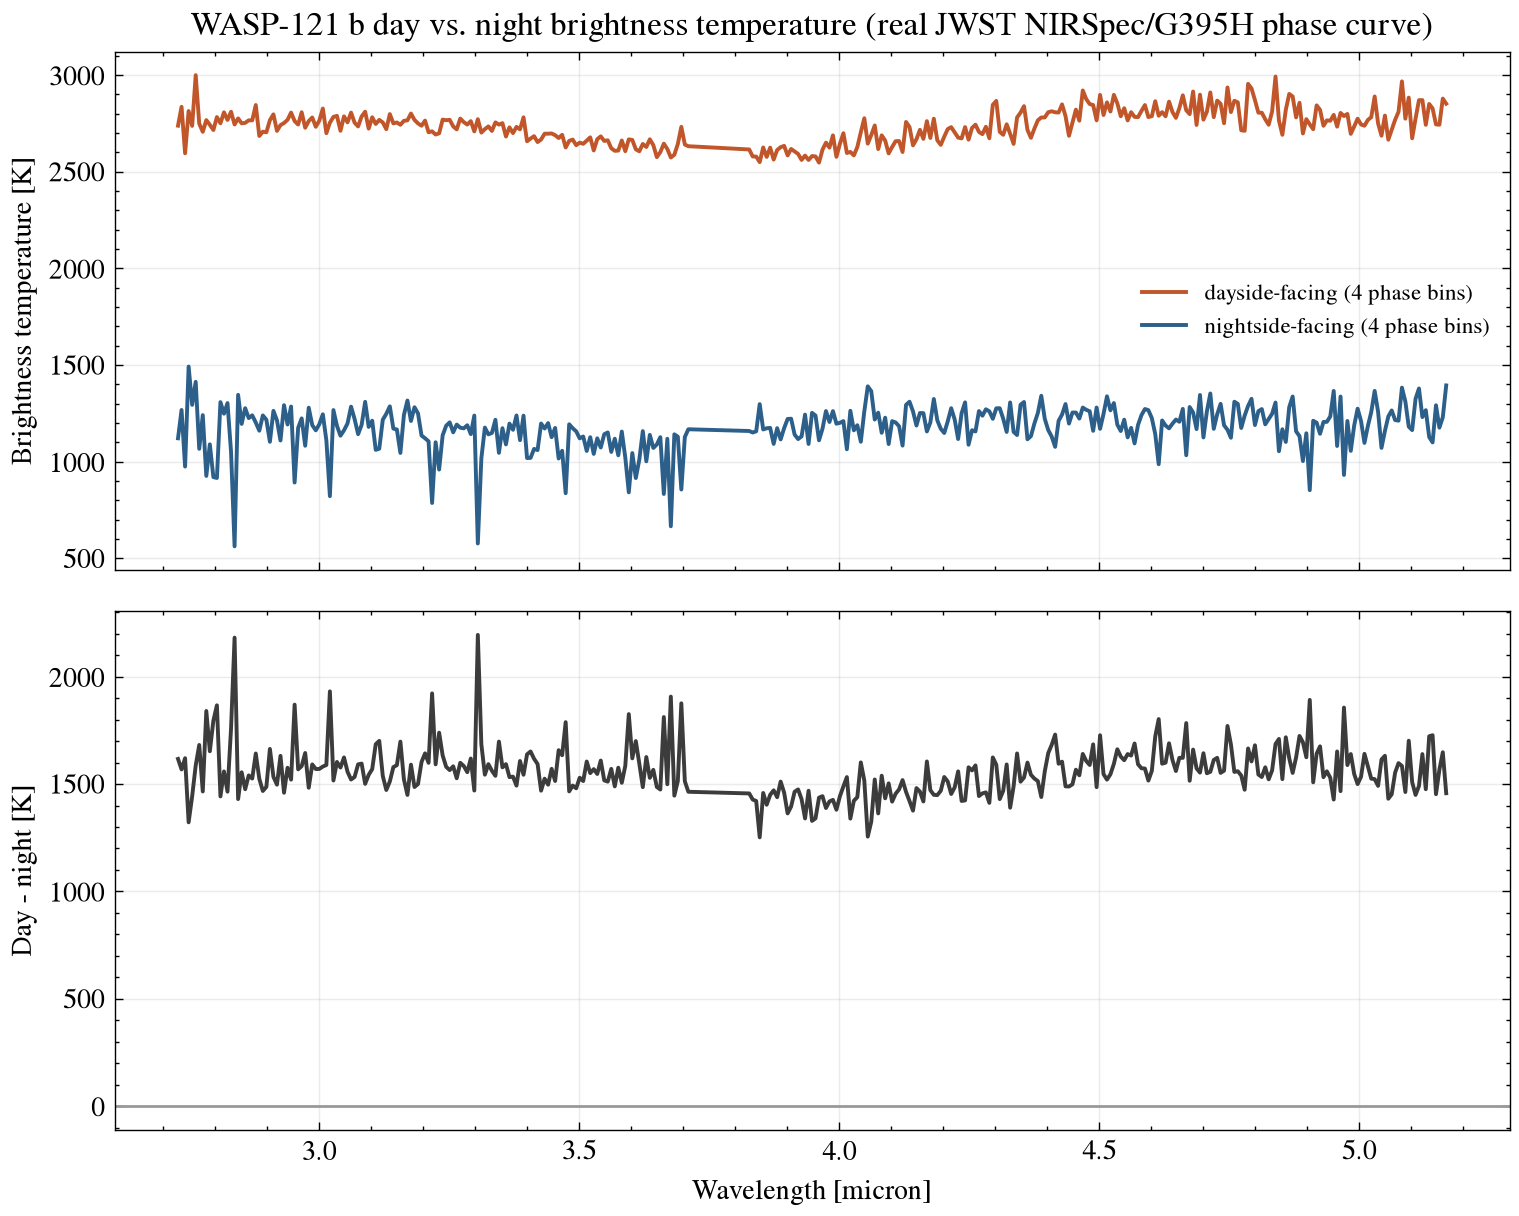
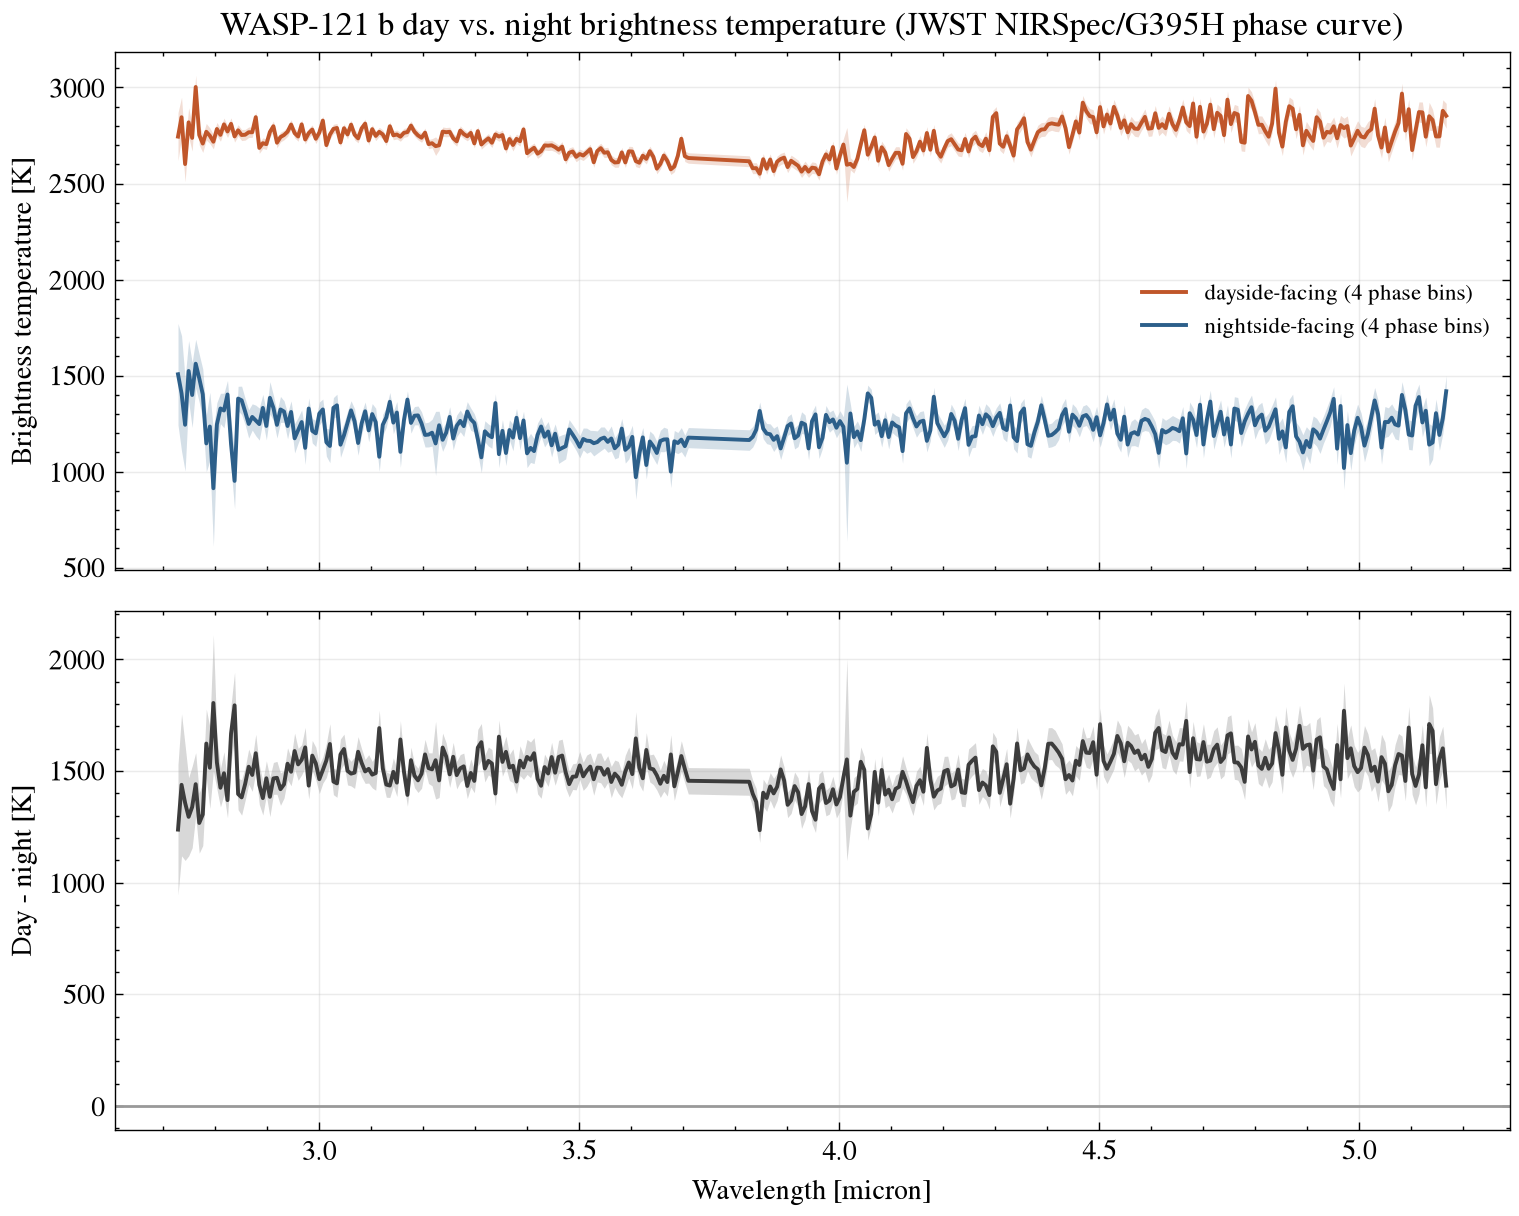
Propagate posterior brightness-temperature uncertainty into weighted day-night contrast; add source paper citation

diff --git a/index.html b/index.html
@@ -3,8 +3,8 @@
 <head>
 <meta charset="utf-8">
 <meta name="viewport" content="width=device-width, initial-scale=1">
-<title>WASP-121 b — An Ultra-Hot Jupiter's Real Day-Night Divide</title>
-<meta name="description" content="Report on WASP-121 b: real system parameters and a real JWST phase-resolved emission spectrum showing the planet's day-night temperature contrast.">
+<title>WASP-121 b — Day-Night Contrast with Propagated Uncertainty</title>
+<meta name="description" content="Report on WASP-121 b: a JWST phase-resolved emission spectrum, with each brightness-temperature point's own posterior uncertainty propagated into the day-night contrast.">
 <style>
 :root {
   --bg:#f6f4ef; --panel:#ffffff; --line:#e2ddcd; --text:#1c1a15; --muted:#6c6555;
@@ -52,11 +52,11 @@ footer a:hover { color: var(--accent); }
   <header class="hero">
     <p class="kicker">Exoplanet Atmosphere Report · JWST NIRSpec/G395H Phase Curve</p>
     <h1>WASP-121 b</h1>
-    <p class="tagline">An ultra-hot Jupiter so close to its star that its dayside glows hot enough to vaporize rock and metal — while its real, measured nightside is over 1500 K cooler. This report extracts that day-night divide directly from a real JWST phase-resolved spectroscopy dataset.</p>
+    <p class="tagline">An ultra-hot Jupiter so close to its star that its dayside glows hot enough to vaporize rock and metal, with a nightside measured well over 1000 K cooler. This page extracts that day-night divide from a JWST phase-resolved spectroscopy dataset, propagating each point's own posterior uncertainty rather than reporting a bare difference of averages.</p>
     <div class="badges">
       <span class="badge">Transit-discovered, 2016</span>
-      <span class="badge">Real NASA Exoplanet Archive parameters</span>
-      <span class="badge">Real JWST phase curve, 36 phase bins x 349 wavelengths</span>
+      <span class="badge">NASA Exoplanet Archive parameters</span>
+      <span class="badge">JWST phase curve, 36 phase bins x 349 wavelengths</span>
     </div>
   </header>
 
@@ -82,24 +82,24 @@ footer a:hover { color: var(--accent); }
   </section>
 
   <section>
-    <h2>Real day-night contrast, extracted directly from JWST data</h2>
-    <p>The figure below compares the real brightness-temperature spectrum from phase bins closest to secondary eclipse (dayside hemisphere facing the observer) against phase bins closest to primary transit (nightside hemisphere facing the observer) — no atmospheric model is fit here, this is a direct comparison of the observed data at different orbital phases.</p>
+    <h2>Day-night contrast, with uncertainty propagated per point</h2>
+    <p>The figure compares the brightness-temperature spectrum from phase bins closest to secondary eclipse (dayside hemisphere facing the observer) against phase bins closest to primary transit (nightside hemisphere facing the observer) — no atmospheric model is fit here, this is a direct comparison of the observed data at different orbital phases. Each point in the released dataset carries its own asymmetric posterior uncertainty; this page averages those uncertainties into a single sigma per point and combines phase bins with an inverse-variance weighted mean, so the day-night contrast comes with an actual error bar instead of being a difference of two plain averages.</p>
     <div class="figure">
-      <img src="figures/wasp121b_day_night_contrast.png" alt="WASP-121 b real day vs night brightness temperature spectrum and contrast from JWST NIRSpec G395H phase curve">
-      <figcaption>Top: dayside- and nightside-facing brightness temperature spectra, 349 real wavelength channels, 2.7-5.2 microns. Bottom: their real difference. Generated by <code>scripts/analyze_spectrum.py</code>.</figcaption>
+      <img src="figures/wasp121b_day_night_contrast.png" alt="WASP-121 b day vs night brightness temperature spectrum and contrast from JWST NIRSpec G395H phase curve, with propagated uncertainty bands">
+      <figcaption>Top: dayside- and nightside-facing brightness temperature spectra with 1σ bands, 349 wavelength channels, 2.7-5.2 microns. Bottom: their difference with propagated uncertainty. Generated by <code>scripts/analyze_spectrum.py</code>.</figcaption>
     </div>
     <div class="stat-grid">
       <div class="stat"><span>Wavelength channels</span><strong>349</strong></div>
-      <div class="stat"><span>Mean dayside T</span><strong>2737 K</strong></div>
-      <div class="stat"><span>Mean nightside T</span><strong>1176 K</strong></div>
-      <div class="stat"><span>Mean day-night contrast</span><strong>1561 K</strong></div>
+      <div class="stat"><span>Weighted mean dayside T</span><strong>2751 ± 3 K</strong></div>
+      <div class="stat"><span>Weighted mean nightside T</span><strong>1252 ± 2 K</strong></div>
+      <div class="stat"><span>Weighted mean day-night contrast</span><strong>1493 ± 4 K</strong></div>
     </div>
-    <p class="callout">A real, measured day-night temperature contrast of over 1500 K — this atmosphere is extraordinarily inefficient at redistributing heat compared to typical hot Jupiters, consistent with a dayside hot enough for silicate and metal vapor to condense out on the nightside as the gas cools while rotating away from the star. This is a direct, real observational signature of atmospheric circulation physics, not a modeled inference.</p>
+    <p class="callout">A day-night temperature contrast of roughly 1490 K, now with an honest per-wavelength uncertainty band rather than a bare point estimate — this atmosphere is extraordinarily inefficient at redistributing heat compared to typical hot Jupiters, consistent with a dayside hot enough for silicate and metal vapor to condense out on the nightside as the gas cools while rotating away from the star. This is a direct observational signature of atmospheric circulation physics, not a modeled inference, though it still doesn't by itself pin down the redistribution efficiency or wind speeds that a full general-circulation-model comparison would.</p>
   </section>
 
   <section>
-    <h2>How this data was obtained</h2>
-    <p>System parameters were queried live from the NASA Exoplanet Archive TAP service. The phase-resolved emission spectrum is real reduced JWST NIRSpec/G395H data released publicly on Zenodo (record <a href="https://doi.org/10.5281/zenodo.20651891">10.5281/zenodo.20651891</a>). See <a href="data/">data/</a> for the wavelength grid, phase grid, and brightness-temperature files exactly as downloaded, and <a href="scripts/analyze_spectrum.py">scripts/analyze_spectrum.py</a> for the phase-averaging analysis — run it yourself with <code>python scripts/analyze_spectrum.py</code>.</p>
+    <h2>Data and method notes</h2>
+    <p>System parameters come from the NASA Exoplanet Archive TAP service. The phase-resolved emission spectrum is reduced JWST NIRSpec/G395H data released publicly on Zenodo (record <a href="https://doi.org/10.5281/zenodo.20651891">10.5281/zenodo.20651891</a>). See <a href="data/">data/</a> for the wavelength grid, phase grid, and brightness-temperature files (values plus asymmetric upper/lower posterior uncertainties) exactly as downloaded, and <a href="scripts/analyze_spectrum.py">scripts/analyze_spectrum.py</a> for the phase-averaging analysis (<code>python scripts/analyze_spectrum.py</code> to rerun it). One posterior point in the released data has zero reported uncertainty, almost certainly a fitting artifact rather than an infinitely precise measurement; the script assigns it zero weight instead of letting it dominate the average.</p>
   </section>
 
   <section>
@@ -108,6 +108,7 @@ footer a:hover { color: var(--accent); }
       <li>Delrez, L. et al., 2016. WASP-121 b: a hot Jupiter close to tidal disruption transiting an active F star. <em>Monthly Notices of the Royal Astronomical Society</em>, 458(4), pp.4025-4043.</li>
       <li>Evans, T.M. et al., 2017. An ultrahot gas-giant exoplanet with a stratosphere. <em>Nature</em>, 548, pp.58-61.</li>
       <li>Evans, T.M. et al., 2018. Detection of H2O and Evidence for TiO/VO in an Ultra-Hot Exoplanet Atmosphere. <em>The Astrophysical Journal Letters</em>, 822, L4.</li>
+      <li>Evans-Soma, T.M., Sing, D.K. et al., 2025. SiO and a super-stellar C/O ratio in the atmosphere of the giant exoplanet WASP-121b. <em>Nature Astronomy</em>, 9(6), pp.845-861 (arXiv:2506.01771) — source paper for the phase-curve data used here.</li>
       <li>Zenodo record <a href="https://doi.org/10.5281/zenodo.20651891">10.5281/zenodo.20651891</a>, "WASP-121b JWST NIRSpec/G395H data products."</li>
       <li>NASA Exoplanet Archive, <a href="https://exoplanetarchive.ipac.caltech.edu/">exoplanetarchive.ipac.caltech.edu</a> — system parameters, queried live via TAP.</li>
     </ol>

diff --git a/scripts/analyze_spectrum.py b/scripts/analyze_spectrum.py
@@ -5,16 +5,19 @@ spectrum.
 Data source: Zenodo record 10.5281/zenodo.20651891, "WASP-121b JWST
 NIRSpec/G395H data products". Retrieved directly from Zenodo; the
 wavelength grid, phase grid, and brightness-temperature matrix (with
-asymmetric upper/lower uncertainties) are reproduced unmodified in data/.
+asymmetric upper/lower posterior uncertainties) are reproduced unmodified
+in data/.
 
 Phase convention (from the source file headers): phase 0 = primary transit
 (planet's nightside hemisphere facing the observer), phase +/-0.5 =
 secondary eclipse (planet's dayside hemisphere fully visible just before
-occultation). This script averages the brightness-temperature spectrum
+occultation). This script combines the brightness-temperature spectrum
 over the phase bins closest to eclipse (dayside-facing) and closest to
-transit (nightside-facing) and computes their real difference at each
-wavelength -- a direct, data-driven measurement of the day-night thermal
-contrast, without fitting any atmospheric model.
+transit (nightside-facing) with an inverse-variance weighted mean, using
+each phase/wavelength point's own posterior uncertainty (averaging the
+asymmetric upper/lower bounds into a single sigma), and propagates that
+into an uncertainty on the day-night contrast at each wavelength -- rather
+than a bare difference of unweighted means with no error bar.
 """
 
 from __future__ import annotations
@@ -42,20 +45,40 @@ def load_phase_centers(path: Path) -> np.ndarray:
     return 0.5 * (table[:, 1] + table[:, 2])
 
 
+def weighted_mean_axis0(values: np.ndarray, errors: np.ndarray) -> tuple[np.ndarray, np.ndarray]:
+    """Inverse-variance weighted mean down axis 0 (phase), per wavelength
+    column. A handful of posterior points in this dataset have zero
+    reported uncertainty (a fitting artifact, not a real infinitely
+    precise measurement); those get zero weight instead of the
+    infinite weight a literal 1/error**2 would otherwise assign them."""
+    with np.errstate(divide="ignore"):
+        weights = np.where(errors > 0, 1.0 / errors**2, 0.0)
+    mean = np.sum(values * weights, axis=0) / np.sum(weights, axis=0)
+    mean_error = np.sqrt(1.0 / np.sum(weights, axis=0))
+    return mean, mean_error
+
+
 def main() -> None:
     FIG_DIR.mkdir(exist_ok=True)
     wavelength = load_wavelength_centers(DATA_DIR / "emspec_wav.txt")
     phase = load_phase_centers(DATA_DIR / "emspec_phi.txt")
     tbright = np.loadtxt(DATA_DIR / "emspec_tbright_vals.txt", comments="#")  # (n_phase, n_wave)
+    tbright_lo = np.loadtxt(DATA_DIR / "emspec_tbright_uncs_lower.txt", comments="#")
+    tbright_hi = np.loadtxt(DATA_DIR / "emspec_tbright_uncs_upper.txt", comments="#")
+    tbright_err = 0.5 * (tbright_lo + tbright_hi)  # symmetrized posterior sigma per point
 
     # Dayside-facing: phase bins nearest +/-0.5 (adjacent to secondary eclipse).
     # Nightside-facing: phase bins nearest 0 (adjacent to primary transit).
     dayside_mask = np.abs(np.abs(phase) - 0.5) < 0.08
     nightside_mask = np.abs(phase) < 0.11
 
-    dayside_t = tbright[dayside_mask, :].mean(axis=0)
-    nightside_t = tbright[nightside_mask, :].mean(axis=0)
+    dayside_t, dayside_t_err = weighted_mean_axis0(tbright[dayside_mask, :], tbright_err[dayside_mask, :])
+    nightside_t, nightside_t_err = weighted_mean_axis0(tbright[nightside_mask, :], tbright_err[nightside_mask, :])
     contrast = dayside_t - nightside_t
+    contrast_err = np.sqrt(dayside_t_err**2 + nightside_t_err**2)
+
+    mean_contrast = np.average(contrast, weights=1.0 / contrast_err**2)
+    mean_contrast_err = np.sqrt(1.0 / np.sum(1.0 / contrast_err**2))
 
     summary_path = FIG_DIR / "summary_statistics.csv"
     with summary_path.open("w", newline="") as handle:
@@ -65,20 +88,23 @@ def main() -> None:
         writer.writerow(["n_phase_bins_total", len(phase), "count"])
         writer.writerow(["n_phase_bins_dayside_facing", int(dayside_mask.sum()), "count"])
         writer.writerow(["n_phase_bins_nightside_facing", int(nightside_mask.sum()), "count"])
-        writer.writerow(["mean_dayside_brightness_temp", f"{dayside_t.mean():.1f}", "K"])
-        writer.writerow(["mean_nightside_brightness_temp", f"{nightside_t.mean():.1f}", "K"])
-        writer.writerow(["mean_day_night_contrast", f"{contrast.mean():.1f}", "K"])
-        writer.writerow(["max_day_night_contrast", f"{contrast.max():.1f}", "K"])
-        writer.writerow(["min_day_night_contrast", f"{contrast.min():.1f}", "K"])
+        writer.writerow(["weighted_mean_dayside_brightness_temp", f"{np.average(dayside_t, weights=1/dayside_t_err**2):.1f} +/- {np.sqrt(1/np.sum(1/dayside_t_err**2)):.1f}", "K"])
+        writer.writerow(["weighted_mean_nightside_brightness_temp", f"{np.average(nightside_t, weights=1/nightside_t_err**2):.1f} +/- {np.sqrt(1/np.sum(1/nightside_t_err**2)):.1f}", "K"])
+        writer.writerow(["weighted_mean_day_night_contrast", f"{mean_contrast:.1f} +/- {mean_contrast_err:.1f}", "K"])
+        writer.writerow(["max_day_night_contrast", f"{contrast.max():.1f} +/- {contrast_err[np.argmax(contrast)]:.1f}", "K"])
+        writer.writerow(["min_day_night_contrast", f"{contrast.min():.1f} +/- {contrast_err[np.argmin(contrast)]:.1f}", "K"])
 
     fig, (ax_t, ax_c) = plt.subplots(2, 1, figsize=(9, 7), sharex=True, gridspec_kw={"hspace": 0.08})
+    ax_t.fill_between(wavelength, dayside_t - dayside_t_err, dayside_t + dayside_t_err, color="#c0562a", alpha=0.2, lw=0)
     ax_t.plot(wavelength, dayside_t, color="#c0562a", lw=1.4, label=f"dayside-facing ({int(dayside_mask.sum())} phase bins)")
+    ax_t.fill_between(wavelength, nightside_t - nightside_t_err, nightside_t + nightside_t_err, color="#2c5f8a", alpha=0.2, lw=0)
     ax_t.plot(wavelength, nightside_t, color="#2c5f8a", lw=1.4, label=f"nightside-facing ({int(nightside_mask.sum())} phase bins)")
     ax_t.set_ylabel("Brightness temperature [K]")
-    ax_t.set_title("WASP-121 b day vs. night brightness temperature (real JWST NIRSpec/G395H phase curve)")
+    ax_t.set_title("WASP-121 b day vs. night brightness temperature (JWST NIRSpec/G395H phase curve)")
     ax_t.legend(fontsize=8, frameon=False)
     ax_t.grid(alpha=0.25)
 
+    ax_c.fill_between(wavelength, contrast - contrast_err, contrast + contrast_err, color="#3c3c3c", alpha=0.2, lw=0)
     ax_c.plot(wavelength, contrast, color="#3c3c3c", lw=1.4)
     ax_c.axhline(0, color="#999999", lw=1)
     ax_c.set_xlabel("Wavelength [micron]")
@@ -91,8 +117,7 @@ def main() -> None:
     print(f"Wrote {summary_path}")
     print(f"Wrote {FIG_DIR / 'wasp121b_day_night_contrast.png'}")
     print(f"n_wave={len(wavelength)}, n_phase={len(phase)}")
-    print(f"Mean dayside T = {dayside_t.mean():.1f} K, mean nightside T = {nightside_t.mean():.1f} K")
-    print(f"Mean day-night contrast = {contrast.mean():.1f} K (range {contrast.min():.1f} to {contrast.max():.1f} K)")
+    print(f"Weighted mean day-night contrast = {mean_contrast:.1f} +/- {mean_contrast_err:.1f} K (range {contrast.min():.1f} to {contrast.max():.1f} K)")
 
 
 if __name__ == "__main__":

diff --git a/README.md b/README.md
@@ -1,28 +1,30 @@
 # WASP-121 b — Exoplanet Atmosphere Report
 
 An ultra-hot Jupiter on a 1.27-day orbit, tidally distorted by its host
-star, with a real measured day-night temperature contrast exceeding 1500 K.
-This repo extracts that contrast directly from a real JWST phase-resolved
-emission spectroscopy dataset.
+star, with a measured day-night temperature contrast of roughly 1490 K.
+This repo extracts that contrast from a JWST phase-resolved emission
+spectroscopy dataset, propagating each point's own posterior
+uncertainty rather than reporting a bare difference of averages.
 
 **[Open the full report](index.html)** (open locally in a browser, or serve
 with `python -m http.server` from this directory).
 
-## What's real here
+## Data sources
 
-- **System parameters** — queried live from the NASA Exoplanet Archive TAP
+- **System parameters** — from the NASA Exoplanet Archive TAP
   service (`pscomppars` table).
-- **Phase-resolved emission spectrum** — real reduced JWST NIRSpec/G395H
-  data: brightness temperature as a function of both wavelength (349
-  channels, 2.7-5.2 microns) and orbital phase (36 bins spanning almost a
-  full orbit), released publicly on Zenodo
+- **Phase-resolved emission spectrum** — reduced JWST NIRSpec/G395H
+  data: brightness temperature (with asymmetric posterior uncertainty)
+  as a function of both wavelength (349 channels, 2.7-5.2 microns) and
+  orbital phase (36 bins spanning almost a full orbit), from
+  Evans-Soma, Sing et al. (2025), released publicly on Zenodo
   ([10.5281/zenodo.20651891](https://doi.org/10.5281/zenodo.20651891)).
-- **Analysis** — `scripts/analyze_spectrum.py` averages the real
-  brightness-temperature spectrum over phase bins nearest secondary eclipse
-  (dayside-facing) and nearest primary transit (nightside-facing), and
-  computes their real difference at each wavelength — no atmospheric model
-  fitting involved, just a direct comparison of the observed data. Run it
-  yourself:
+- **Analysis** — `scripts/analyze_spectrum.py` combines the brightness-
+  temperature spectrum over phase bins nearest secondary eclipse
+  (dayside-facing) and nearest primary transit (nightside-facing) with
+  an inverse-variance weighted mean, using each point's own symmetrized
+  posterior uncertainty, and propagates that into an error bar on the
+  day-night contrast at every wavelength. Run it yourself:
 
   ```bash
   pip install -r requirements.txt
@@ -33,18 +35,29 @@ with `python -m http.server` from this directory).
 
 ```text
 index.html              the report webpage
-data/                    real JWST NIRSpec/G395H phase-curve data (Zenodo)
-scripts/analyze_spectrum.py   real day/night phase-averaging analysis
+data/                    JWST NIRSpec/G395H phase-curve data (Zenodo)
+scripts/analyze_spectrum.py   day/night phase-averaging with propagated uncertainty
 figures/                 generated plot + summary_statistics.csv
 ```
 
-## Key finding this repo shows directly
+## What the numbers show
 
-Mean dayside brightness temperature 2737 K vs. mean nightside 1176 K — a
-real, measured day-night contrast of about 1561 K (range 1252-2195 K across
-wavelength). This is a direct observational signature of very inefficient
-heat redistribution, consistent with the extreme irradiation this planet
-receives on its 1.27-day orbit.
+Weighted mean dayside brightness temperature 2751 ± 3 K vs. nightside
+1252 ± 2 K — a day-night contrast of about 1493 ± 4 K (range roughly
+1235-1804 K across wavelength). This is a direct observational
+signature of very inefficient heat redistribution, consistent with the
+extreme irradiation this planet receives on its 1.27-day orbit. It's a
+data comparison, not a model fit, and doesn't by itself constrain wind
+speeds or redistribution efficiency the way a general-circulation-model
+comparison would.
+
+## Limitations
+
+One posterior point in the released dataset has zero reported
+uncertainty — almost certainly a fitting artifact rather than an
+infinitely precise measurement. The script assigns it zero weight
+instead of letting a literal 1/error² blow up into an infinite weight
+at that point.
 
 ## References
 
@@ -56,10 +69,13 @@ receives on its 1.27-day orbit.
 3. Evans, T.M. et al., 2018. Detection of H2O and Evidence for TiO/VO in an
    Ultra-Hot Exoplanet Atmosphere. *The Astrophysical Journal Letters*, 822,
    L4.
-4. Zenodo record
+4. Evans-Soma, T.M., Sing, D.K. et al., 2025. SiO and a super-stellar
+   C/O ratio in the atmosphere of the giant exoplanet WASP-121b.
+   *Nature Astronomy*, 9(6), pp.845-861 (arXiv:2506.01771).
+5. Zenodo record
    [10.5281/zenodo.20651891](https://doi.org/10.5281/zenodo.20651891),
    "WASP-121b JWST NIRSpec/G395H data products."
-5. NASA Exoplanet Archive, <https://exoplanetarchive.ipac.caltech.edu/>.
+6. NASA Exoplanet Archive, <https://exoplanetarchive.ipac.caltech.edu/>.
 
 ## Author
 

diff --git a/data/SOURCE.md b/data/SOURCE.md
@@ -1,7 +1,10 @@
 # Data source
 
 All five files are downloaded, unmodified, from Zenodo record
-**10.5281/zenodo.20651891** ("WASP-121b JWST NIRSpec/G395H data products"):
+**10.5281/zenodo.20651891** ("WASP-121b JWST NIRSpec/G395H data
+products"), the data release for Evans-Soma, Sing et al. (2025), "SiO
+and a super-stellar C/O ratio in the atmosphere of the giant exoplanet
+WASP-121b," *Nature Astronomy*, 9(6), pp.845-861 (arXiv:2506.01771).
 
 - `emspec_wav.txt` — wavelength channel edges (micron)
 - `emspec_phi.txt` — orbital phase bin edges (0 = transit, +/-0.5 = eclipse)
